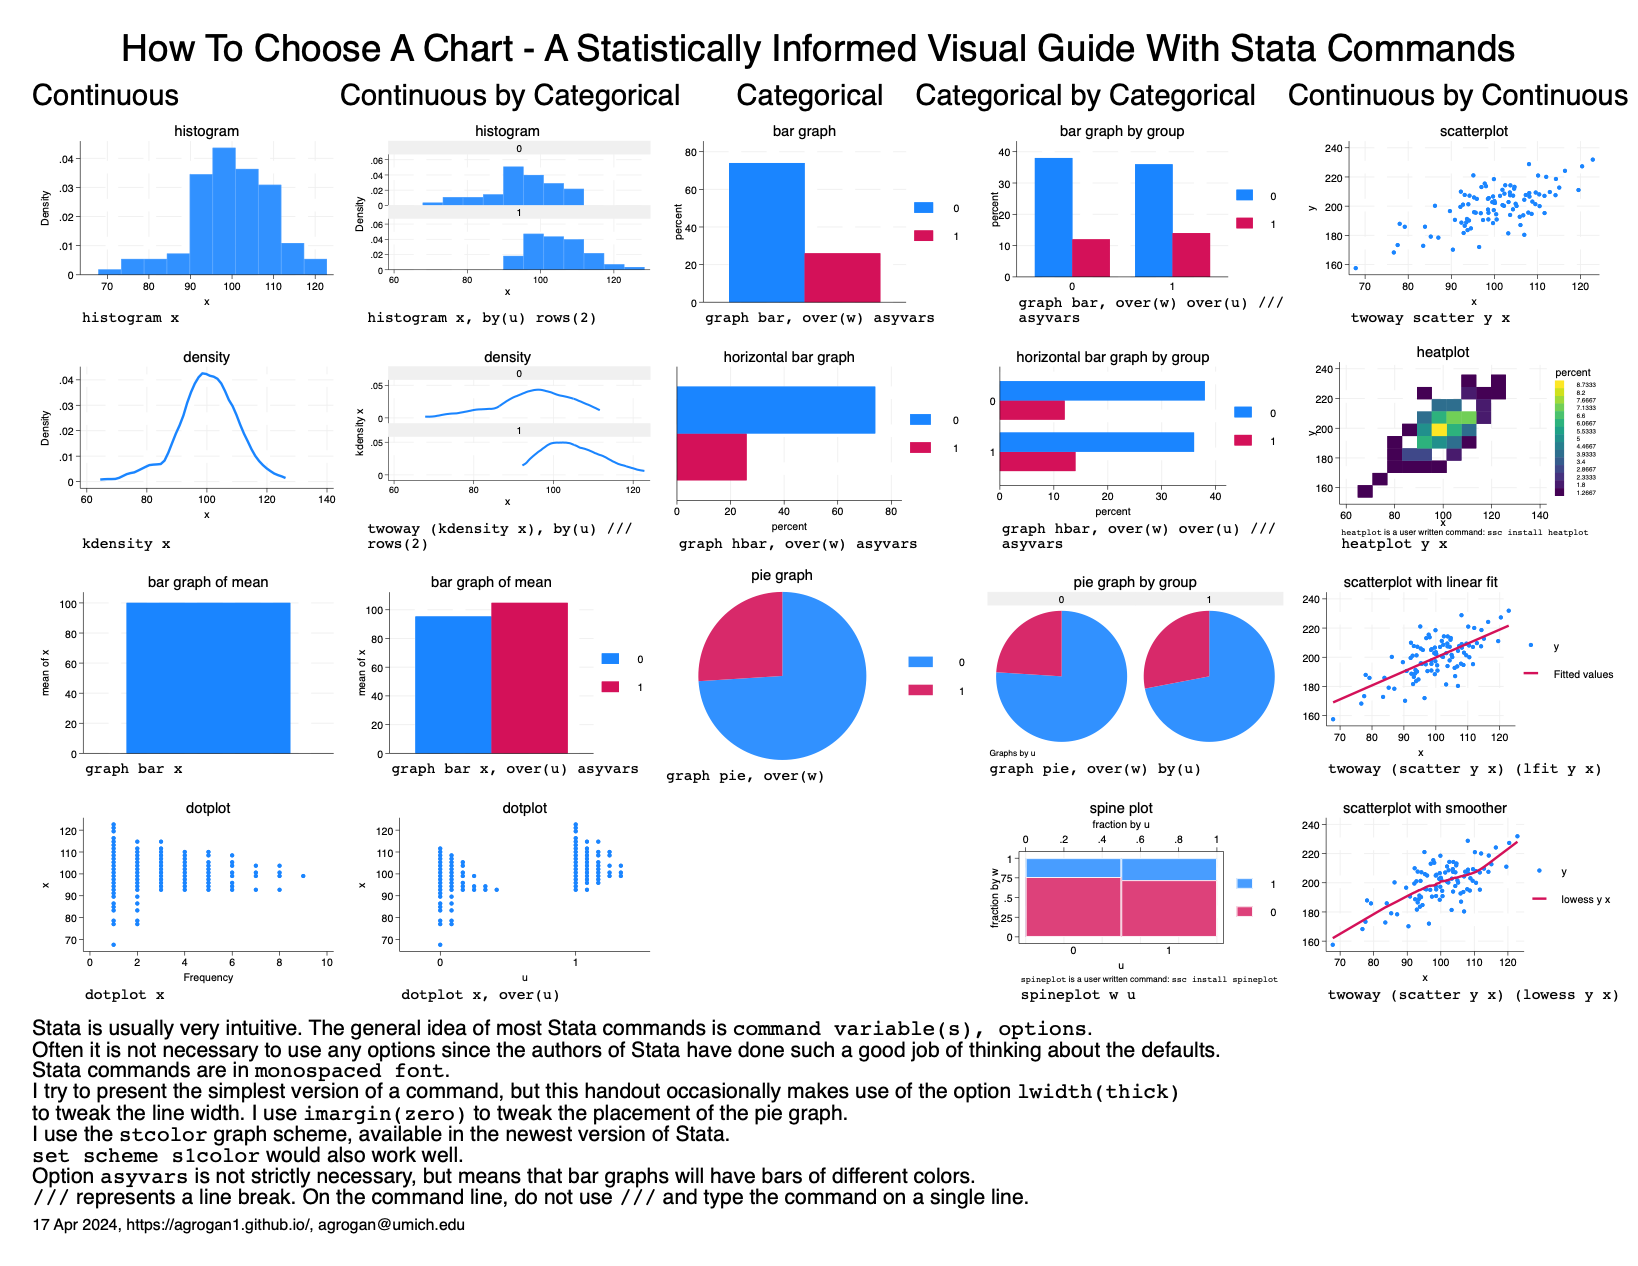
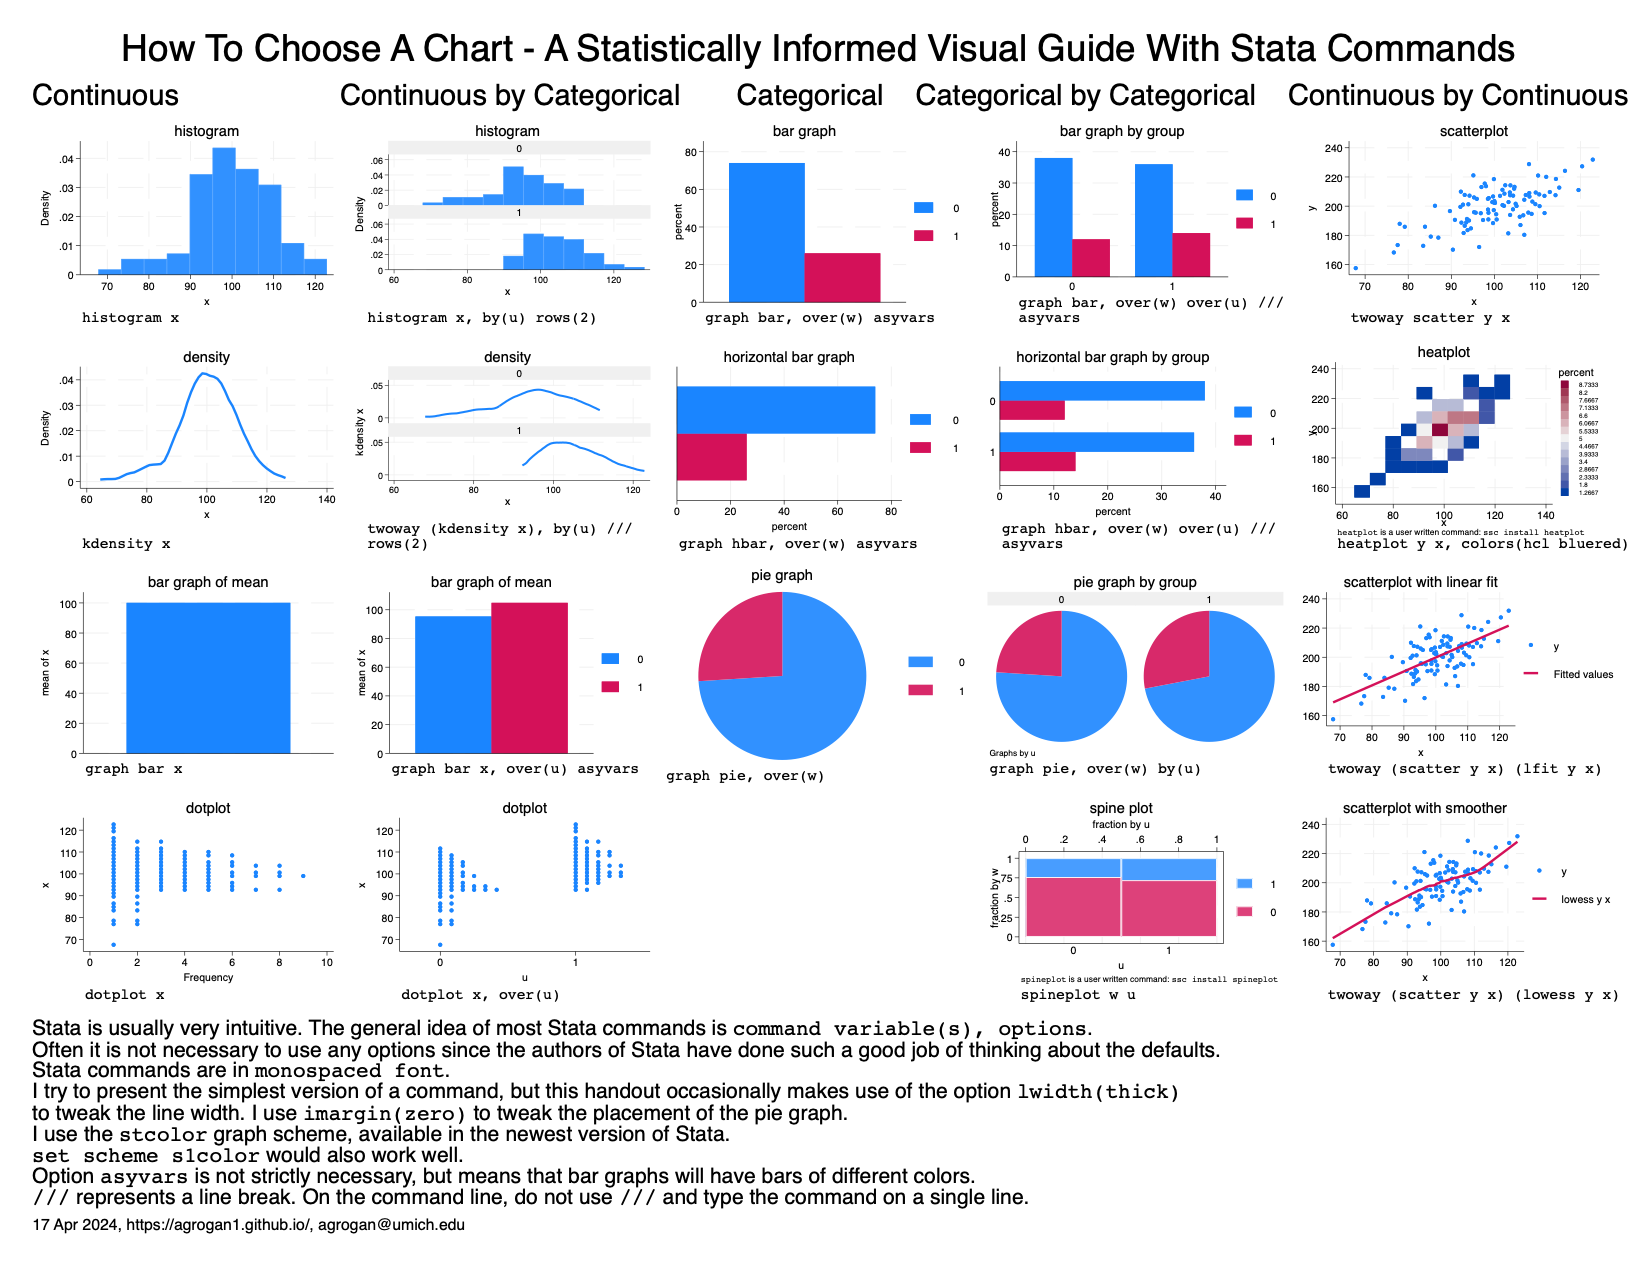
added download of most recent version

Changed region(s): [[0.8095, 0.2773, 0.9963, 0.4313]]

diff --git a/docs/blog.html b/docs/blog.html
@@ -285,7 +285,7 @@ window.Quarto = {
     </div>
 </div>
 <div class="list quarto-listing-default">
-<div class="quarto-post image-right" data-index="0" data-categories="stats,dataviz" data-listing-date-sort="1713326400000" data-listing-file-modified-sort="1713385217660" data-listing-date-modified-sort="NaN" data-listing-reading-time-sort="1" data-listing-word-count-sort="23">
+<div class="quarto-post image-right" data-index="0" data-categories="stats,dataviz" data-listing-date-sort="1713326400000" data-listing-file-modified-sort="1713388981273" data-listing-date-modified-sort="NaN" data-listing-reading-time-sort="1" data-listing-word-count-sort="38">
 <div class="thumbnail">
 <p><a href="./posts/how-to-choose-a-chart-a-visual-guide-with-Stata/index.html" class="no-external"></a></p><a href="./posts/how-to-choose-a-chart-a-visual-guide-with-Stata/index.html" class="no-external">
 <p><img src="./posts/how-to-choose-a-chart-a-visual-guide-with-Stata/how-to-choose-a-chart-a-visual-guide-with-Stata.png" class="thumbnail-image"></p>
@@ -307,7 +307,7 @@ dataviz
 </div>
 </div>
 <div class="listing-description">
-<a href="./posts/how-to-choose-a-chart-a-visual-guide-with-Stata/index.html" class="no-external">I’ve developed a new graphing tutorial for Stata: How To Choose A Chart - A Statistically Informed Visual Guide With Stata Commands</a>
+<a href="./posts/how-to-choose-a-chart-a-visual-guide-with-Stata/index.html" class="no-external">I’ve updated my graphing tutorial for Stata: How To Choose A Chart - A Statistically Informed Visual Guide With Stata Commands</a>
 </div>
 </div>
 <div class="metadata">

diff --git a/docs/posts/how-to-choose-a-chart-a-visual-guide-with-Stata/index.html b/docs/posts/how-to-choose-a-chart-a-visual-guide-with-Stata/index.html
@@ -222,7 +222,7 @@ ul.task-list li input[type="checkbox"] {
 
 
 
-<p>I’ve developed a new graphing tutorial for Stata: <a href="https://agrogan1.github.io/Stata/how-to-choose-a-chart-a-visual-guide-with-Stata/how-to-choose-a-chart-a-visual-guide-with-Stata.pdf">How To Choose A Chart - A Statistically Informed Visual Guide With Stata Commands</a></p>
+<p>I’ve updated my graphing tutorial for Stata: <a href="https://agrogan1.github.io/Stata/how-to-choose-a-chart-a-visual-guide-with-Stata/how-to-choose-a-chart-a-visual-guide-with-Stata.pdf">How To Choose A Chart - A Statistically Informed Visual Guide With Stata Commands</a></p>
 <div class="cell">
 <div class="cell-output-display">
 <div>
@@ -768,7 +768,7 @@ window.document.addEventListener("DOMContentLoaded", function (event) {
 });
 </script>
 </div> <!-- /content -->
-<script>var lightboxQuarto = GLightbox({"closeEffect":"zoom","selector":".lightbox","loop":false,"openEffect":"zoom","descPosition":"bottom"});
+<script>var lightboxQuarto = GLightbox({"selector":".lightbox","openEffect":"zoom","closeEffect":"zoom","loop":false,"descPosition":"bottom"});
 window.onload = () => {
   lightboxQuarto.on('slide_before_load', (data) => {
     const { slideIndex, slideNode, slideConfig, player, trigger } = data;
